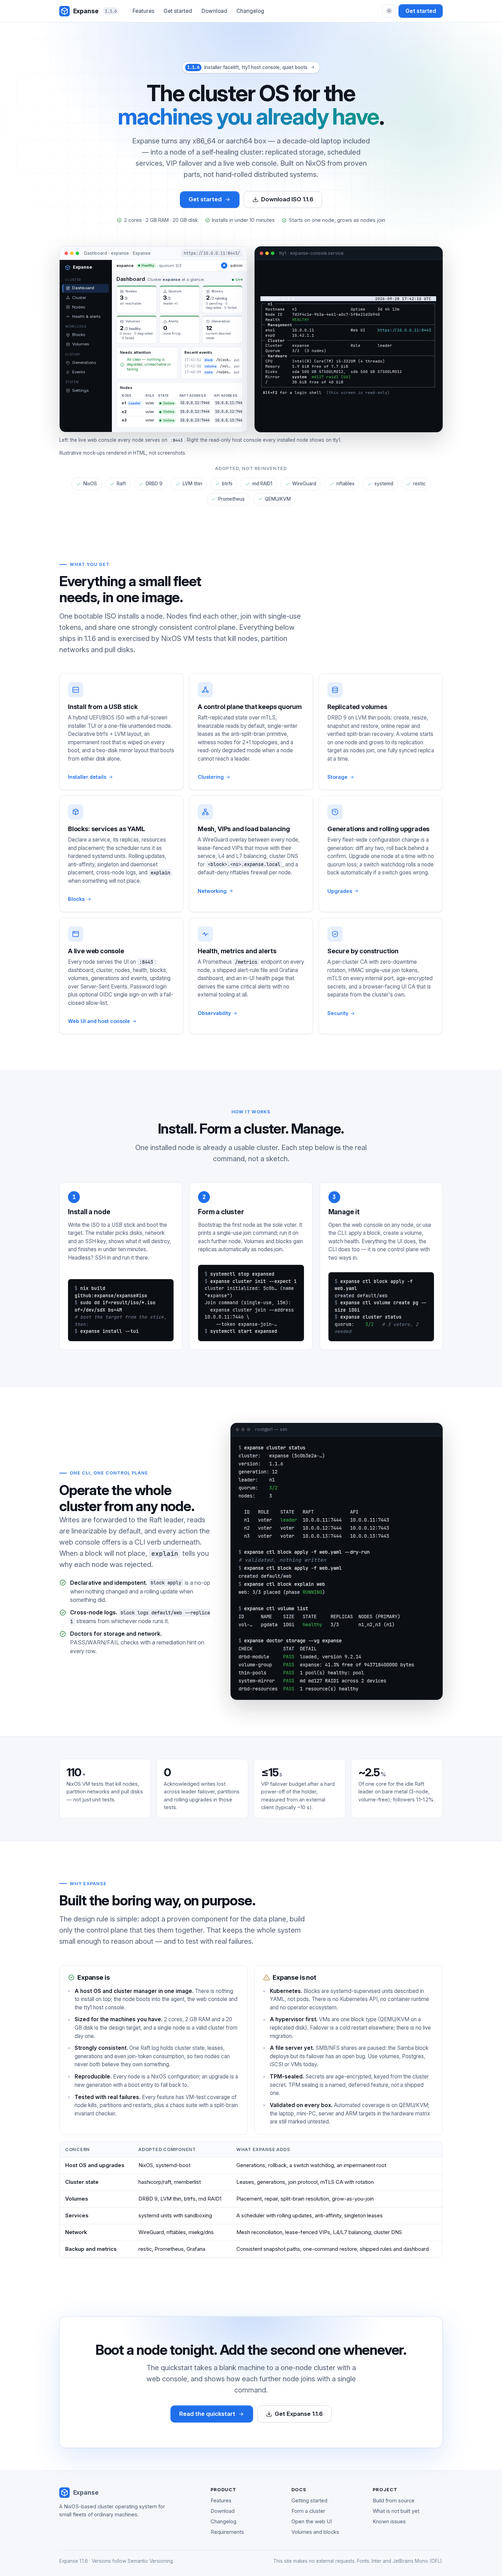
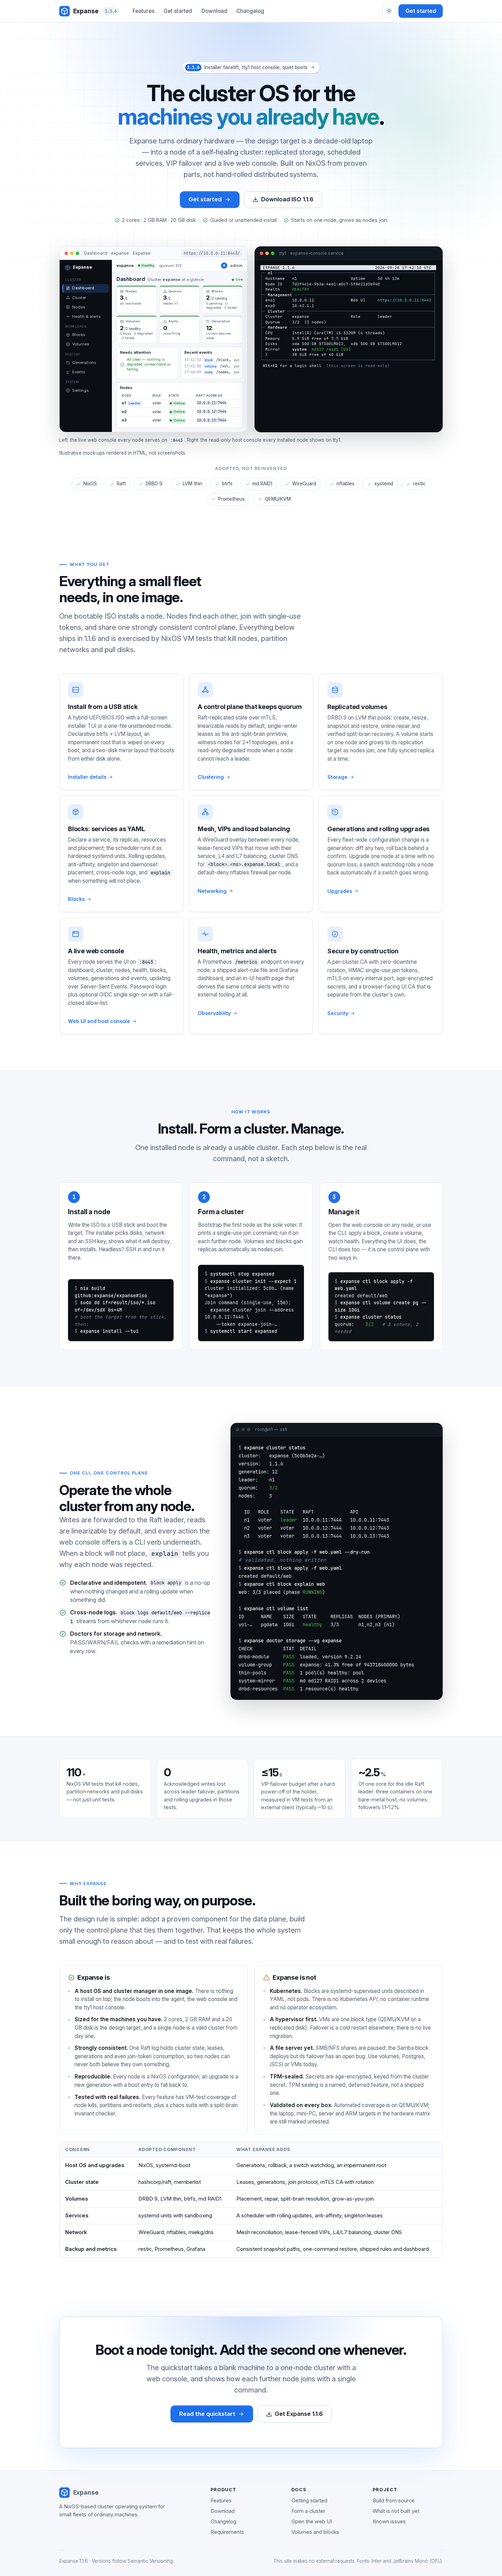
Fix console mock-ups on narrow screens and correct unverified claims
- tty1 mock: top-align the text, scale the font so all 72 columns fit at
  every width, and make the header version readable
- Web console mock: drop address columns when the Nodes card is narrow
- Header: the "Get started" hide rule never applied; hide it below 380px
- Claims: aarch64 is untested and its image is UEFI-only; the old laptop is
  the design target, not a tested machine; idle CPU was measured in
  containers on one host; failover was measured in VM tests; drop the
  unmeasured "under ten minutes" install time
- Download: link the v1.1.6 GitHub release asset instead of a local
  releases/ placeholder

Claude-Session: https://claude.ai/code/session_01TJ4uj8SR2WCx7QSxgW4hcT

Changed region(s): [[0.5312, 0.0935, 0.875, 0.1558], [0.3125, 0.1558, 0.375, 0.1869]]

diff --git a/index.html b/index.html
@@ -91,14 +91,14 @@
           <svg class="icon" aria-hidden="true"><use href="#i-arrow"/></svg>
         </a>
         <h1>The cluster OS for the <span class="grad">machines you already have</span>.</h1>
-        <p class="lead">Expanse turns any x86_64 or aarch64 box — a decade-old laptop included — into a node of a self-healing cluster: replicated storage, scheduled services, VIP failover and a live web console. Built on NixOS from proven parts, not hand-rolled distributed systems.</p>
+        <p class="lead">Expanse turns ordinary hardware — the design target is a decade-old laptop — into a node of a self-healing cluster: replicated storage, scheduled services, VIP failover and a live web console. Built on NixOS from proven parts, not hand-rolled distributed systems.</p>
         <div class="hero-actions">
           <a class="btn btn-primary btn-lg" href="docs/getting-started.html">Get started<svg class="icon" aria-hidden="true"><use href="#i-arrow"/></svg></a>
           <a class="btn btn-secondary btn-lg" href="download.html"><svg class="icon" aria-hidden="true"><use href="#i-download"/></svg>Download ISO 1.1.6</a>
         </div>
         <div class="hero-meta">
           <span><svg class="icon" aria-hidden="true"><use href="#i-check-circle"/></svg>2 cores · 2 GB RAM · 20 GB disk</span>
-          <span><svg class="icon" aria-hidden="true"><use href="#i-check-circle"/></svg>Installs in under 10 minutes</span>
+          <span><svg class="icon" aria-hidden="true"><use href="#i-check-circle"/></svg>Guided or unattended install</span>
           <span><svg class="icon" aria-hidden="true"><use href="#i-check-circle"/></svg>Starts on one node, grows as nodes join</span>
         </div>
       </div>
@@ -146,11 +146,11 @@
                 </div>
                 <div class="mu-card"><h5>Nodes</h5>
                   <table>
-                    <thead><tr><th>Node</th><th>Role</th><th>State</th><th class="hide-sm">Raft address</th><th class="hide-sm">API address</th></tr></thead>
+                    <thead><tr><th>Node</th><th>Role</th><th>State</th><th class="hide-sm raft">Raft address</th><th class="hide-sm api">API address</th></tr></thead>
                     <tbody>
-                      <tr><td><b>n1</b> <span class="spill leader">Leader</span></td><td>voter</td><td><span class="spill"><i></i>Online</span></td><td class="hide-sm"><code>10.0.0.11:7444</code></td><td class="hide-sm"><code>10.0.0.11:7443</code></td></tr>
-                      <tr><td><b>n2</b></td><td>voter</td><td><span class="spill"><i></i>Online</span></td><td class="hide-sm"><code>10.0.0.12:7444</code></td><td class="hide-sm"><code>10.0.0.12:7443</code></td></tr>
-                      <tr><td><b>n3</b></td><td>voter</td><td><span class="spill"><i></i>Online</span></td><td class="hide-sm"><code>10.0.0.13:7444</code></td><td class="hide-sm"><code>10.0.0.13:7443</code></td></tr>
+                      <tr><td><b>n1</b> <span class="spill leader">Leader</span></td><td>voter</td><td><span class="spill"><i></i>Online</span></td><td class="hide-sm raft"><code>10.0.0.11:7444</code></td><td class="hide-sm api"><code>10.0.0.11:7443</code></td></tr>
+                      <tr><td><b>n2</b></td><td>voter</td><td><span class="spill"><i></i>Online</span></td><td class="hide-sm raft"><code>10.0.0.12:7444</code></td><td class="hide-sm api"><code>10.0.0.12:7443</code></td></tr>
+                      <tr><td><b>n3</b></td><td>voter</td><td><span class="spill"><i></i>Online</span></td><td class="hide-sm raft"><code>10.0.0.13:7444</code></td><td class="hide-sm api"><code>10.0.0.13:7443</code></td></tr>
                     </tbody>
                   </table>
                 </div>
@@ -288,7 +288,7 @@
         <div class="step reveal">
           <span class="step-num" aria-hidden="true">1</span>
           <h3>Install a node</h3>
-          <p>Write the ISO to a USB stick and boot the target. The installer picks disks, network and an SSH key, shows what it will destroy, and finishes in under ten minutes. Headless? SSH in and run it there.</p>
+          <p>Write the ISO to a USB stick and boot the target. The installer picks disks, network and an SSH key, shows what it will destroy, then installs. Headless? SSH in and run it there.</p>
           <div class="code"><pre><span class="p">$ </span><span class="cmd">nix build github:expanse/expanse#iso</span>
 <span class="p">$ </span><span class="cmd">sudo dd if=result/iso/*.iso of=/dev/sdX bs=4M</span>
 <span class="cm"># boot the target from the stick, then:</span>
@@ -378,8 +378,8 @@
       <div class="stats">
         <div class="stat reveal"><div class="n">110<small>+</small></div><div class="d">NixOS VM tests that kill nodes, partition networks and pull disks — not just unit tests.</div></div>
         <div class="stat reveal reveal-2"><div class="n">0</div><div class="d">Acknowledged writes lost across leader failover, partitions and rolling upgrades in those tests.</div></div>
-        <div class="stat reveal reveal-3"><div class="n">≤15<small>s</small></div><div class="d">VIP failover budget after a hard power-off of the holder, measured from an external client (typically ~10 s).</div></div>
-        <div class="stat reveal"><div class="n">~2.5<small>%</small></div><div class="d">Of one core for the idle Raft leader on bare metal (3-node, volume-free); followers 1.1–1.2%.</div></div>
+        <div class="stat reveal reveal-3"><div class="n">≤15<small>s</small></div><div class="d">VIP failover budget after a hard power-off of the holder, measured in VM tests from an external client (typically ~10 s).</div></div>
+        <div class="stat reveal"><div class="n">~2.5<small>%</small></div><div class="d">Of one core for the idle Raft leader: three containers on one bare-metal host, no volumes; followers 1.1–1.2%.</div></div>
       </div>
     </div>
   </section>

diff --git a/docs/getting-started.html b/docs/getting-started.html
@@ -58,7 +58,7 @@
     <div class="container">
       <div class="eyebrow">Getting started</div>
       <h1>From a blank machine to a running cluster.</h1>
-      <p class="lead">This walkthrough assumes no familiarity with Nix or btrfs. It takes one machine to an installed node, forms a one-node cluster, opens the web console, and then adds more nodes. Expect under ten minutes for the install itself.</p>
+      <p class="lead">This walkthrough assumes no familiarity with Nix or btrfs. It takes one machine to an installed node, forms a one-node cluster, opens the web console, and then adds more nodes.</p>
     </div>
   </section>
 
@@ -83,7 +83,7 @@
     <article class="prose">
       <h2 id="requirements">What you need</h2>
       <ul>
-        <li>Any machine with at least <strong>2 CPU cores, 2 GB RAM and a 20 GB disk</strong>. A ten-year-old laptop is fine — that is the design target. x86_64 and aarch64 are supported.</li>
+        <li>Any machine with at least <strong>2 CPU cores, 2 GB RAM and a 20 GB disk</strong>. A ten-year-old laptop is the design target. x86_64 is the tested architecture; aarch64 images build from the flake but are untested.</li>
         <li>A USB stick of at least 4 GB (the ISO is about 1.4 GB).</li>
         <li>An SSH public key. Optional, but strongly recommended: the installer warns when none is given.</li>
         <li>A machine with Nix to build the ISO, or a downloaded release image (see <a href="../download.html">Download</a>).</li>
@@ -94,7 +94,7 @@
       <p>Build the ISO from the flake (or use a downloaded release image), then write it to the stick. Replace <code>/dev/sdX</code> with your USB device — check with <code>lsblk</code> first.</p>
       <div class="code"><pre><span class="p">$ </span><span class="cmd">nix build github:expanse/expanse#iso</span>
 <span class="p">$ </span><span class="cmd">sudo dd if=result/iso/*.iso of=/dev/sdX bs=4M status=progress oflag=direct</span></pre></div>
-      <p>The image is hybrid: it boots under UEFI and legacy BIOS alike.</p>
+      <p>The x86_64 image is hybrid: it boots under UEFI and legacy BIOS alike.</p>
 
       <h2 id="boot">2. Boot the installer</h2>
       <p>Boot the target machine from the stick. A full-screen installer starts automatically on the console.</p>
@@ -110,7 +110,7 @@
         <li><strong>Network</strong> — DHCP (recommended) or static.</li>
         <li><strong>SSH key</strong> — paste a public key, or type <code>gh:&lt;username&gt;</code> to fetch your keys from GitHub.</li>
         <li><strong>Review</strong> — the full plan, with a red list of everything that will be destroyed. Type <code>INSTALL</code> to proceed; the install starts on the last letter, with no Enter needed.</li>
-        <li><strong>Progress</strong> — the current stage, a progress bar, elapsed time and a scrolling tail of the log (the full log is in <code>/tmp/expanse-install.log</code>). Under ten minutes.</li>
+        <li><strong>Progress</strong> — the current stage, a progress bar, elapsed time and a scrolling tail of the log (the full log is in <code>/tmp/expanse-install.log</code>).</li>
       </ol>
       <p>When it finishes you get your <strong>node ID</strong> (a UUID), the machine's addresses and the next steps: the web UI URL, where the admin password is logged, and how to form a one-node cluster. Reboot and remove the stick.</p>
 

diff --git a/assets/site.css b/assets/site.css
@@ -217,10 +217,10 @@ hr { border: 0; border-top: 1px solid var(--border); margin: 2rem 0; }
   .site-nav.open { display: flex; }
   .site-nav a { padding: 0.7rem 0.75rem; font-size: 1rem; }
   .menu-btn { display: inline-flex; }
-  .header-cta { display: none; }
   .site-header .container { gap: 0.75rem; }
 }
 @media (max-width: 420px) { .brand-version { display: none; } }
+@media (max-width: 379px) { .header-actions .header-cta { display: none; } }
 @media (max-width: 560px) {
   .window-bar > span:not(.dots):not(.url) { white-space: nowrap; overflow: hidden; text-overflow: ellipsis; min-width: 0; }
   .window-bar .url { display: none; }
@@ -341,6 +341,10 @@ hr { border: 0; border-top: 1px solid var(--border); margin: 2rem 0; }
 .mu-stat .v small { font-size: 10px; font-weight: 500; color: var(--muted); margin-left: 0.15em; }
 .mu-stat .s { font-size: 9.5px; color: var(--muted); }
 .mu-card { min-width: 0; overflow: hidden; background: var(--surface); border: 1px solid var(--border); border-radius: 7px; padding: 0.5rem 0.6rem; }
+.mu-card { container-type: inline-size; }
+@container (max-width: 440px) { .mu .api { display: none; } }
+@container (max-width: 300px) { .mu .raft { display: none; } }
+@container (max-width: 150px) { .mu-ev .t { display: none; } }
 .mu-card h5 { margin: 0 0 0.35rem; font-size: 11px; font-weight: 600; }
 .mu-row2 { display: grid; grid-template-columns: minmax(0, 1fr) minmax(0, 1fr); gap: 0.45rem; }
 .mu-ok { display: flex; align-items: center; gap: 0.4rem; color: var(--ok); font-size: 10.5px; }
@@ -367,17 +371,17 @@ hr { border: 0; border-top: 1px solid var(--border); margin: 2rem 0; }
 
 /* tty1 console mock */
 .window-dark { display: flex; flex-direction: column; }
-.tty { flex: 1; display: flex; flex-direction: column; justify-content: center; padding: 0.9rem 1rem 1rem; overflow-x: auto; font-family: var(--mono); font-size: 10.5px; line-height: 1.42; }
-.tty pre { margin: 0; font: inherit; color: var(--term-fg); }
+.tty { flex: 1; container-type: inline-size; padding: 0.9rem 1rem 1rem; overflow-x: auto; font-family: var(--mono); line-height: 1.42; }
+/* Fit all 72 columns: JetBrains Mono advances 0.6em, and some renderers round advances to whole pixels */
+.tty pre { margin: 0; font: inherit; font-size: min(11px, 100cqi / 44); font-size: min(11px, round(down, 100cqi / 72, 1px) / 0.6); color: var(--term-fg); }
 .tty .hdr { background: var(--term-fg); color: var(--term-bg); font-weight: 500; }
 .tty .dim { color: var(--term-muted); }
 .tty .g { color: var(--term-green); font-weight: 500; }
 .tty .y { color: var(--term-yellow); }
 .tty .c { color: var(--term-cyan); }
 .tty .b { font-weight: 500; color: #fff; }
+.tty .hdr .b { color: inherit; }
 .tty .box { color: #4b5566; }
-@media (max-width: 960px) { .tty { font-size: 11px; justify-content: flex-start; } }
-@media (max-width: 420px) { .tty { font-size: 10px; } }
 .stage-caption { display: flex; justify-content: space-between; gap: 1rem; margin-top: 0.75rem; font-size: 0.85rem; color: var(--muted); flex-wrap: wrap; }
 
 /* ---------- adopted-parts strip ---------- */

diff --git a/download.html b/download.html
@@ -61,7 +61,7 @@
     <div class="container">
       <div class="eyebrow">Download</div>
       <h1>Get Expanse 1.1.6.</h1>
-      <p class="lead">One hybrid ISO installs a node on x86_64 or aarch64 hardware. Build it from the flake, or write a release image to a USB stick, then follow the <a href="docs/getting-started.html">quickstart</a>.</p>
+      <p class="lead">One hybrid ISO installs a node on x86_64 hardware. Build it from the flake, or write a release image to a USB stick, then follow the <a href="docs/getting-started.html">quickstart</a>.</p>
     </div>
   </section>
 
@@ -80,10 +80,10 @@
             </div>
           </div>
           <div class="hero-actions" style="justify-content:flex-start">
-            <a class="btn btn-primary btn-lg" href="releases/expanse-1.1.6-x86_64-linux.iso"><svg class="icon" aria-hidden="true"><use href="#i-download"/></svg>Download ISO</a>
+            <a class="btn btn-primary btn-lg" href="https://github.com/team-expanse/expanse/releases/download/v1.1.6/expanse-1.1.6-x86_64-linux.iso"><svg class="icon" aria-hidden="true"><use href="#i-download"/></svg>Download ISO</a>
             <a class="btn btn-secondary btn-lg" href="#source">Build from source</a>
           </div>
-          <p class="muted" style="margin-top:1.25rem;font-size:0.9rem">Release downloads are published alongside the source. If the link above is not live for your mirror yet, building from source produces the identical image: the flake asserts the ISO is named <code>expanse-1.1.6-*</code> and that the installer reports 1.1.6.</p>
+          <p class="muted" style="margin-top:1.25rem;font-size:0.9rem">Release images are attached to the <code>v1.1.6</code> release on GitHub. Building from source gives you the same release: the flake asserts the ISO is named <code>expanse-1.1.6-*</code> and that the installer reports 1.1.6.</p>
         </div>
         <div>
           <div class="card" style="height:100%">
@@ -96,7 +96,7 @@
               <div><div class="n">4 GB</div><div class="d">USB stick for the installer</div></div>
             </div>
             <ul class="checks" style="margin-top:1.25rem">
-              <li><svg class="icon" aria-hidden="true"><use href="#i-info"/></svg><span><strong>Architectures:</strong> x86_64 and aarch64. Boots via UEFI or legacy BIOS.</span></li>
+              <li><svg class="icon" aria-hidden="true"><use href="#i-info"/></svg><span><strong>Architectures:</strong> x86_64, booting via UEFI or legacy BIOS. An aarch64 image (UEFI only) builds from the flake but has not been tested.</span></li>
               <li><svg class="icon" aria-hidden="true"><use href="#i-info"/></svg><span><strong>Cluster sizes:</strong> one node works; three voters (or two plus a witness) survive losing one.</span></li>
               <li><svg class="icon" aria-hidden="true"><use href="#i-info"/></svg><span><strong>Hardware status:</strong> automated coverage is on QEMU/KVM. Laptop, mini-PC, server and ARM SBC targets are listed in the hardware matrix as untested.</span></li>
             </ul>

diff --git a/features.html b/features.html
@@ -98,8 +98,8 @@
       <div class="feature-text">
         <div class="card-icon"><svg class="icon" aria-hidden="true"><use href="#i-disk"/></svg></div>
         <div class="eyebrow">Installer</div>
-        <h2>From a blank machine to a node in under ten minutes.</h2>
-        <p class="lead">The ISO is a hybrid image that boots under UEFI and legacy BIOS. A full-screen installer starts automatically; headless machines can be installed over SSH with the same TUI or with a one-file unattended config.</p>
+        <h2>From a blank machine to a node with one USB stick.</h2>
+        <p class="lead">The x86_64 ISO is a hybrid image that boots under UEFI and legacy BIOS. A full-screen installer starts automatically; headless machines can be installed over SSH with the same TUI or with a one-file unattended config.</p>
         <ul class="checks">
           <li><svg class="icon" aria-hidden="true"><use href="#i-check-circle"/></svg><span><strong>Six steps.</strong> Welcome (hardware summary), Disks, Network, SSH key (paste one or <code>gh:&lt;username&gt;</code>), Review with a red list of what will be destroyed, Progress with a stage, bar and log tail.</span></li>
           <li><svg class="icon" aria-hidden="true"><use href="#i-check-circle"/></svg><span><strong>Refuses to surprise you.</strong> Disks holding data are marked <code>CONTAINS DATA</code>; unattended installs will not touch them without <code>--force</code>, and <code>--dry-run</code> prints every command without running one.</span></li>
@@ -122,7 +122,7 @@
         <div class="code" style="margin-top:0.75rem"><pre><span class="p">$ </span><span class="cmd">expanse install --config expanse-install.yaml --dry-run</span>
 <span class="p">$ </span><span class="cmd">expanse install --config expanse-install.yaml --force</span></pre></div>
         <dl class="kv">
-          <div><dt>Targets</dt><dd>x86_64, aarch64</dd></div>
+          <div><dt>Targets</dt><dd>x86_64; aarch64 builds, untested</dd></div>
           <div><dt>Minimum</dt><dd>2 cores · 2 GB · 20 GB</dd></div>
           <div><dt>ISO size</dt><dd>about 1.4 GB</dd></div>
         </dl>

diff --git a/README.md b/README.md
@@ -22,9 +22,10 @@ external requests, works opened straight from disk.
 Every page carries its own copy of the header, footer and inline SVG icon sprite,
 so pages stay self-contained and there is nothing to assemble.
 
-The download button points at a relative placeholder
-(`releases/expanse-1.1.6-x86_64-linux.iso`); drop the real image there, or
-change the link, when a release is published.
+The download button points at the GitHub release asset
+(`https://github.com/team-expanse/expanse/releases/download/v1.1.6/expanse-1.1.6-x86_64-linux.iso`).
+It works once the `v1.1.6` tag is pushed and the ISO is uploaded to that release;
+update the version in `download.html` for each new release.
 
 ## Preview
 
